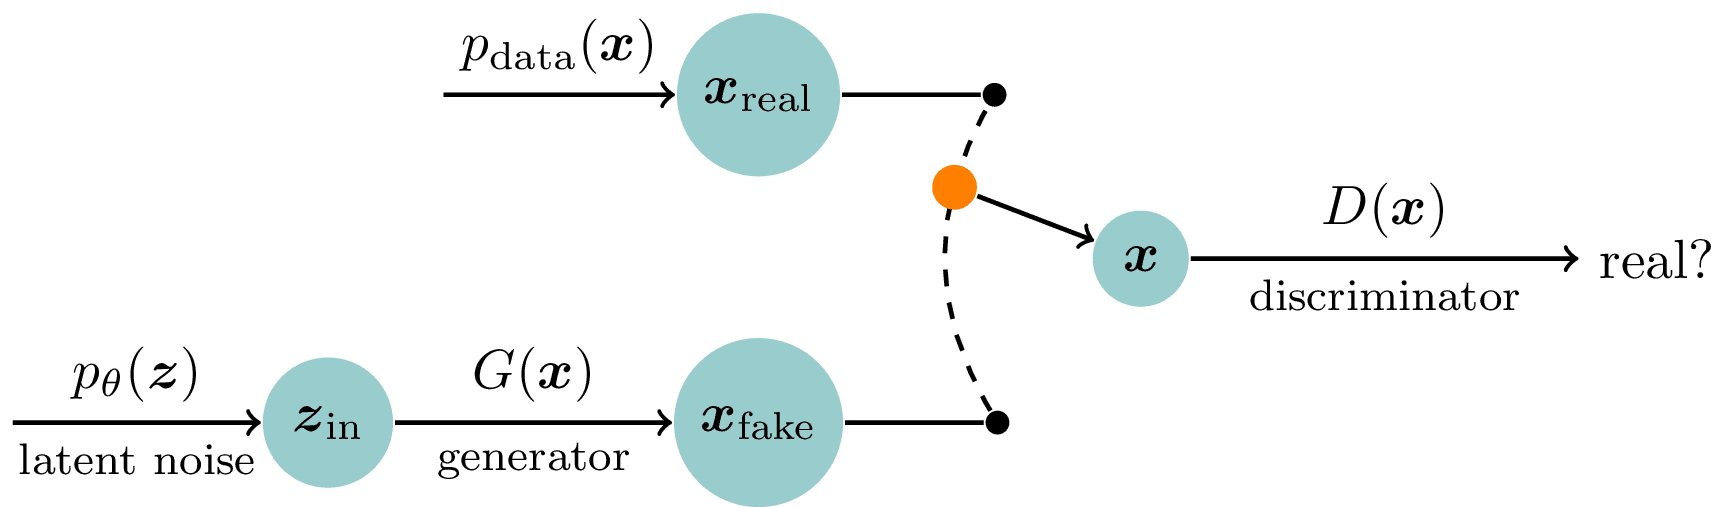
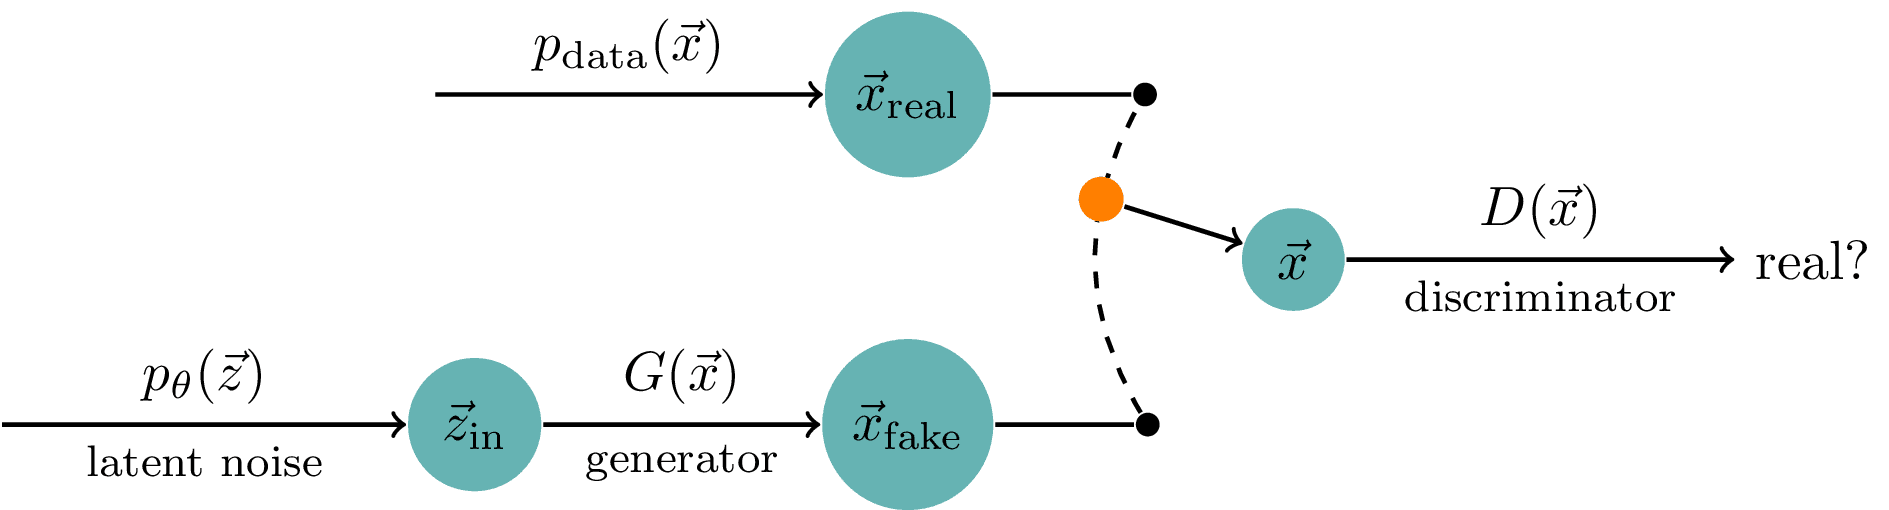
update gan.tex

diff --git a/assets/gan/gan.tex b/assets/gan/gan.tex
@@ -1,5 +1,6 @@
 % Generative adversarial network (GAN) architecture.
 % Adapted from https://github.com/PetarV-/TikZ/tree/master/Generative%20adversarial%20network.
+% A GAN has two parts. The discriminator $D$ acts as a classifier that learns to distinguish fake data produced by the generator $G$ from real data. $G$ incurs a penalty when $D$ detects implausible results. This signal is backpropagated through the generator weights such that $G$ learns to produce more realistic samples over time, eventually fooling the discriminator if training succeeds.
 
 \documentclass[tikz]{standalone}
 
@@ -7,12 +8,10 @@
 
 \usetikzlibrary{calc,positioning}
 
-\renewcommand{\vec}[1]{\boldsymbol{#1}}
-
 \begin{document}
 \begin{tikzpicture}[
     ->, thick,
-    node/.style={circle, fill=teal!40},
+    node/.style={circle, fill=teal!60},
     label/.style={below, font=\footnotesize},
   ]
 
@@ -20,18 +19,17 @@
   \node[node, right=5em of zin] (fake) {$\vec x_\text{fake}$};
   \draw (zin) -- node[above] {$G(\vec x)$} node[label] {generator} (fake);
 
-  \draw[<-] (zin) -- node[above] {$p_\theta(\vec z)$} node[label] {latent noise} ++(-2,0);
+  \draw[<-] (zin) -- node[above] {$p_\theta(\vec z)$} node[label] {latent noise} ++(-3,0);
   \node[node, above=of fake] (real) {$\vec x_\text{real}$};
-  \draw[<-] (real) -- node[above] {$p_\text{data}(\vec x)$} ++(-2,0);
+  \draw[<-] (real) -- node[above] {$p_\text{data}(\vec x)$} ++(-3,0);
   \node[node, right=6em of fake] (D) at ($(fake)!0.5!(real)$) {$\vec x$};
   \node[right=7em of D] (out) {real?};
   \draw (D) -- node[above] {$D(\vec x)$} node[label] {discriminator} (out);
 
-  \node[right=2.5em of fake, circle, fill, inner sep=0.15em] (pt1) {};
-  \node[right=2.5em of real, circle, fill, inner sep=0.15em] (pt2) {};
+  \coordinate[right=2.5em of fake, circle, fill, inner sep=0.15em] (pt1);
+  \coordinate[right=2.5em of real, circle, fill, inner sep=0.15em] (pt2);
 
-  \draw[-, dashed] (pt1) edge[bend left] (pt2);
-  \node[circle, fill=orange, inner sep=1mm] at ([xshift=-1.8ex, yshift=4em]pt1.north) (pt3) {};
+  \draw[-, dashed] (pt1) edge[bend left] coordinate[circle, fill=orange, inner sep=1mm, pos=0.7] (pt3) (pt2);
   \draw (fake) -- (pt1) (real) -- (pt2) (pt3) -- (D);
 
 \end{tikzpicture}
